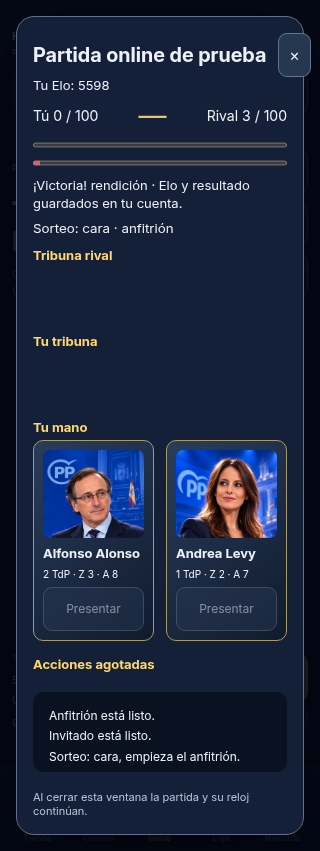
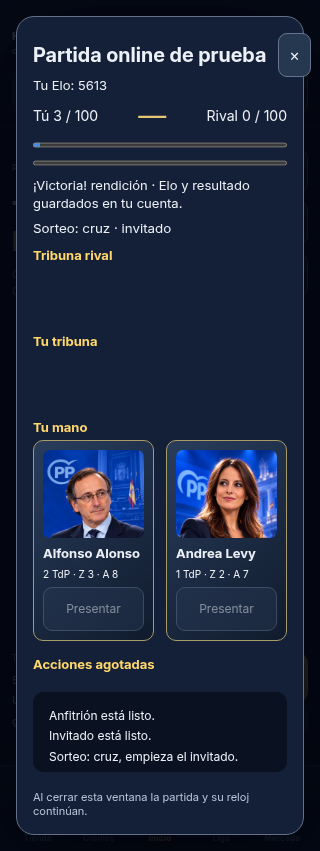
Record verified modes and prevent duplicate combat-window initialization

diff --git a/js/online-ui.js b/js/online-ui.js
@@ -19,7 +19,7 @@ function create(api){const host=document.getElementById('onlineRoot'),base=api.b
  async function refresh(){const selected=$('online-players')?.value;if(queue?.status==='waiting'){queue=await request('/queue',{mode:queue.mode});if(queue.status==='matched'){room=queue.room;openCombat();}}directory=await request('/players');if(directory.self?.visible)directory=await request('/players/presence',{visible:true,online:true});if(room){const before=room.status;room=await request('/rooms/'+room.id);if(before!=='paired'&&room.status==='paired')openCombat();}render();if(selected&&$('online-players'))$('online-players').value=selected;}
  async function run(fn,quiet=false){if(busy)return;const ticket=epoch;busy=true;if(!quiet)message('Conectando… El servidor puede tardar al despertar.');try{await fn();if(!quiet)message('');}catch(e){if(ticket===epoch)message(e.name==='TimeoutError'?'Conexión lenta. Pulsa Actualizar / reintentar.':e.name==='TypeError'?'No hay conexión con el servidor. Puedes cerrar esta ventana y seguir jugando sin conexión.':e.message);}finally{if(ticket===epoch){busy=false;const selected=$('online-players')?.value;render();if(selected&&$('online-players'))$('online-players').value=selected;}}}
  async function create(target){if(target===''){message('Selecciona un jugador.');return;}if(pending&&(pending.target!==target||pending.mode!==mode)){message('Hay una invitación pendiente. Reintenta esa operación primero.');return;}run(async()=>{if(!pending)pending={target,mode,operationId:crypto.randomUUID()};room=await request(target?'/rooms/invite':'/rooms',target?{playerId:target,operationId:pending.operationId,mode}:{operationId:pending.operationId,mode});pending=null;if(room.status==='paired')openCombat();});}
- function openCombat(){if(room?.status!=='paired')return;autoRoom=room.id;combat.open(room.id);$('combat').scrollIntoView({block:'start',behavior:matchMedia('(prefers-reduced-motion: reduce)').matches?'instant':'smooth'});}
+ function openCombat(){if(room?.status!=='paired')return;if(autoRoom===room.id&&!$('combat').hidden)return;autoRoom=room.id;combat.open(room.id);$('combat').scrollIntoView({block:'start',behavior:matchMedia('(prefers-reduced-motion: reduce)').matches?'instant':'smooth'});}
  function close(){if(!opened)return;if(queue?.status==='waiting'){const a=api.account();if(a)fetch(base+'/queue/cancel',{method:'POST',headers:{Authorization:'Bearer '+a.accessToken,'Content-Type':'application/json'},body:'{}',keepalive:true}).catch(()=>{});queue=null;}opened=false;epoch++;busy=false;clearInterval(poll);combat.close();host.querySelector('.online-shade').hidden=true;const app=$('app');app.inert=false;app.removeAttribute('aria-hidden');const target=previousFocus?.isConnected?previousFocus:document.querySelector('[data-act=online]');if(target)target.focus({preventScroll:true});}
  host.querySelector('[data-online=close]').onclick=close;
  document.addEventListener('keydown',e=>{if(!opened)return;if(e.key==='Escape'){e.preventDefault();e.stopImmediatePropagation();close();}if(e.key==='Tab'){const all=[...host.querySelectorAll('button:not(:disabled),input:not(:disabled),select:not(:disabled)')].filter(n=>n.getClientRects().length),at=all.indexOf(document.activeElement);if(all.length&&((e.shiftKey&&at<=0)||(!e.shiftKey&&(at<0||at===all.length-1)))){e.preventDefault();all[e.shiftKey?all.length-1:0].focus();}}},true);

diff --git a/_dev/releases/v31.0.1.3.md b/_dev/releases/v31.0.1.3.md
@@ -13,8 +13,8 @@ servidor. FS, álbum y logros se conservan. Las copias locales no sustituyen el
 Elo vinculado. T1 abierta hasta lanzamiento oficial en Google Play; ningún reset.
 
 El propietario confirma service_role en Render y Success de private_combat.sql.
-Queda necesaria la ejecución de 20261024_matchmaking.sql antes de publicar el
-cliente definitivo; no se confunde el health configurado con esa migración.
+El propietario confirma también Success de 20261024_matchmaking.sql.
+No se confunde el health configurado con la comprobación de las migraciones.
 
 Verificación: motor, permisos SQL, concurrencia, idempotencia, relojes, cola,
 progresión, guardados y actualización PWA; pruebas nativas en Chromium con dos
@@ -28,7 +28,7 @@ colecciones reales. Esta publicación no implica el lanzamiento oficial ni
 la ampliación de catálogo a 1200–1500 ni reset de progresos.
 
 Confirmado por el propietario: Success de private_combat.sql. La ampliación
-posterior de modos requiere matchmaking.sql (cola y Elo único, sin reset); se
-comprobará su Success antes de publicar el cliente final. Normal/Rápida no
+posterior de modos usa matchmaking.sql (cola y Elo único, sin reset), cuyo
+Success ya confirmó el propietario antes de publicar el cliente final. Normal/Rápida no
 modifican progreso; Clasificatoria actualiza Elo y V/D y los ascensos con recibo
 único, partiendo del guardado actual. No existe un contador de Elo de prueba.
